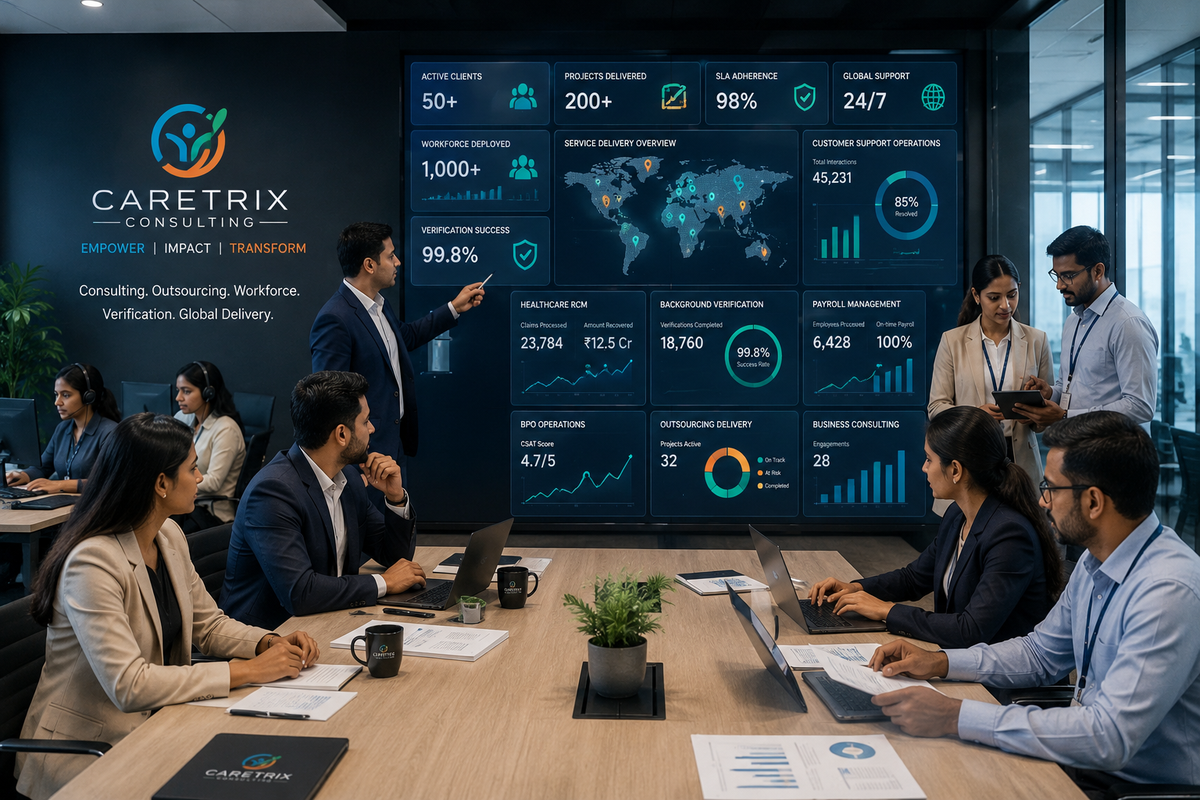
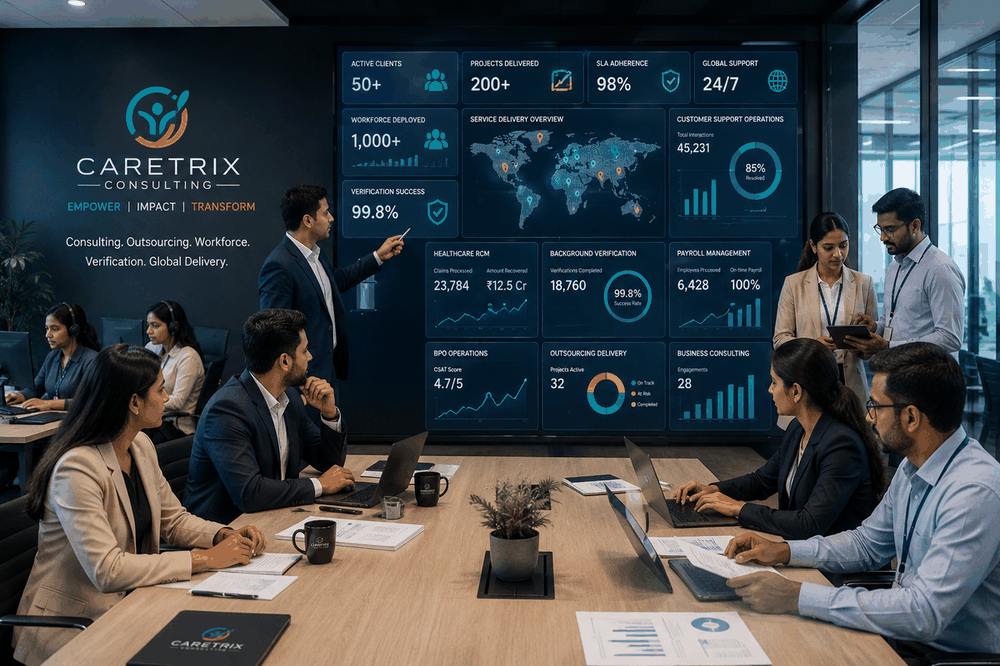
Optimize website loading speed: remove remote 1080p video autoplay, lazy-load below-the-fold components, split vendor-motion chunk, and compress brand assets

diff --git a/client/src/components/HumanMotion8DStudio.jsx b/client/src/components/HumanMotion8DStudio.jsx
@@ -121,7 +121,8 @@ const SERVICES_VIDEOS = [
 
 export default function HumanMotion8DStudio({ onOpenModal }) {
   const [selectedIdx, setSelectedIdx] = useState(0);
-  const [isPlaying, setIsPlaying] = useState(true);
+  const [isPlaying, setIsPlaying] = useState(false);
+  const [hasLoadedVideo, setHasLoadedVideo] = useState(false);
   const [isMuted, setIsMuted] = useState(true);
   const [isSpatial8DOn, setIsSpatial8DOn] = useState(false);
   const [azimuth, setAzimuth] = useState(0);
@@ -136,13 +137,13 @@ export default function HumanMotion8DStudio({ onOpenModal }) {
 
   // Handle Video play/pause
   useEffect(() => {
-    if (!videoRef.current) return;
+    if (!videoRef.current || !hasLoadedVideo) return;
     if (isPlaying) {
       videoRef.current.play().catch(() => {});
     } else {
       videoRef.current.pause();
     }
-  }, [isPlaying, selectedIdx]);
+  }, [isPlaying, selectedIdx, hasLoadedVideo]);
 
   // Handle 8D Spatial Audio Synth using Web Audio API
   useEffect(() => {
@@ -413,9 +414,9 @@ export default function HumanMotion8DStudio({ onOpenModal }) {
               <div style={{ position: 'relative', aspectRatio: '16/9', width: '100%', overflow: 'hidden' }}>
                 <video
                   ref={videoRef}
-                  src={activeService.videoUrl}
+                  src={hasLoadedVideo ? activeService.videoUrl : undefined}
                   poster={activeService.poster}
-                  autoPlay
+                  preload="none"
                   loop
                   muted={isMuted}
                   playsInline
@@ -426,6 +427,52 @@ export default function HumanMotion8DStudio({ onOpenModal }) {
                     display: 'block',
                   }}
                 />
+
+                {/* On-Demand Video Play Overlay */}
+                {!hasLoadedVideo && (
+                  <div
+                    onClick={() => {
+                      setHasLoadedVideo(true);
+                      setIsPlaying(true);
+                    }}
+                    style={{
+                      position: 'absolute',
+                      inset: 0,
+                      display: 'flex',
+                      flexDirection: 'column',
+                      alignItems: 'center',
+                      justifyContent: 'center',
+                      background: 'rgba(15, 23, 42, 0.45)',
+                      backdropFilter: 'blur(2px)',
+                      cursor: 'pointer',
+                      zIndex: 15,
+                      transition: 'all 0.3s',
+                    }}
+                  >
+                    <div
+                      style={{
+                        width: '64px',
+                        height: '64px',
+                        borderRadius: '50%',
+                        background: 'linear-gradient(135deg, #0052cc 0%, #2563eb 100%)',
+                        display: 'flex',
+                        alignItems: 'center',
+                        justifyContent: 'center',
+                        color: '#ffffff',
+                        boxShadow: '0 0 25px rgba(37, 99, 235, 0.6)',
+                        marginBottom: '10px',
+                      }}
+                    >
+                      <Play size={26} style={{ marginLeft: '3px' }} />
+                    </div>
+                    <span style={{ color: '#ffffff', fontSize: '0.9rem', fontWeight: 700, textShadow: '0 2px 4px rgba(0,0,0,0.8)' }}>
+                      Click to Stream 8D Demonstration
+                    </span>
+                    <span style={{ color: '#93c5fd', fontSize: '0.74rem', marginTop: '3px' }}>
+                      Fast On-Demand HD Video
+                    </span>
+                  </div>
+                )}
 
                 {/* HUD Top Bar */}
                 <div
@@ -547,7 +594,10 @@ export default function HumanMotion8DStudio({ onOpenModal }) {
                   </div>
 
                   <button
-                    onClick={() => setIsPlaying(!isPlaying)}
+                    onClick={() => {
+                      if (!hasLoadedVideo) setHasLoadedVideo(true);
+                      setIsPlaying(!isPlaying);
+                    }}
                     style={{
                       width: '42px',
                       height: '42px',

diff --git a/client/src/pages/Home.jsx b/client/src/pages/Home.jsx
@@ -1,4 +1,4 @@
-import React, { useState } from 'react';
+import React, { useState, lazy, Suspense } from 'react';
 import { Link } from 'react-router-dom';
 import {
   ArrowRight,
@@ -27,9 +27,11 @@ import {
 import Interactive3DCanvas from '../components/Interactive3DCanvas';
 import TiltCard from '../components/TiltCard';
 import StatCounter from '../components/StatCounter';
-import PanIndiaAndAEOSection from '../components/PanIndiaAndAEOSection';
-import HumanMotion8DStudio from '../components/HumanMotion8DStudio';
 import { AnimasterMagneticButton } from '../components/extensions/AnimasterLib';
+
+// Lazy-load below-the-fold heavy modules to achieve sub-second FCP
+const PanIndiaAndAEOSection = lazy(() => import('../components/PanIndiaAndAEOSection'));
+const HumanMotion8DStudio = lazy(() => import('../components/HumanMotion8DStudio'));
 
 export default function Home({ onOpenModal }) {
   // Mega Hub Hero Active Pillar State: 'consulting' | 'services'
@@ -963,7 +965,9 @@ export default function Home({ onOpenModal }) {
       </section>
 
       {/* 6. Real-Human 3D 8D Motion Video Studio Demonstration */}
-      <HumanMotion8DStudio onOpenModal={onOpenModal} />
+      <Suspense fallback={<div style={{ minHeight: '300px', background: '#f8fafc' }} />}>
+        <HumanMotion8DStudio onOpenModal={onOpenModal} />
+      </Suspense>
 
       {/* 7. Real-Time Global Delivery & Delivery Centers */}
       <section className="section-py" style={{ background: '#f8fafc', borderTop: '1px solid #e2e8f0', borderBottom: '1px solid #e2e8f0' }}>
@@ -1200,7 +1204,9 @@ export default function Home({ onOpenModal }) {
       </section>
 
       {/* 9. Pan-India Business Presence & Advanced AEO/GEO Knowledge Engine */}
-      <PanIndiaAndAEOSection onOpenModal={onOpenModal} />
+      <Suspense fallback={<div style={{ minHeight: '300px', background: '#f8fafc' }} />}>
+        <PanIndiaAndAEOSection onOpenModal={onOpenModal} />
+      </Suspense>
 
       {/* 10. Full-Frame Executive Enterprise Call to Action */}
       <section
@@ -1237,7 +1243,7 @@ export default function Home({ onOpenModal }) {
               lineHeight: '1.75',
             }}
           >
-            Whether you require 24/7 Application Support Services (AMS), an International/Domestic Voice Process call center, or an end-to-end SAP S/4HANA migration pod, our leadership team is ready to deploy.
+            Whether you require 24/7 Application Support (AMS), Multi-Cloud &amp; DevOps Engineering, Custom Software Development, or Global Voice Operations, our leadership team is ready to deploy.
           </p>
 
           <div style={{ display: 'flex', justifyContent: 'center', gap: '1.25rem', flexWrap: 'wrap' }}>

diff --git a/client/src/pages/Services.jsx b/client/src/pages/Services.jsx
@@ -1,4 +1,4 @@
-import React, { useState } from 'react';
+import React, { useState, lazy, Suspense } from 'react';
 import {
   Cpu,
   HeartPulse,
@@ -33,7 +33,8 @@ import {
   Shield,
   Workflow,
 } from 'lucide-react';
-import HumanMotion8DStudio from '../components/HumanMotion8DStudio';
+
+const HumanMotion8DStudio = lazy(() => import('../components/HumanMotion8DStudio'));
 
 export default function Services({ onOpenModal }) {
   const [activeFilter, setActiveFilter] = useState('all');
@@ -485,7 +486,9 @@ export default function Services({ onOpenModal }) {
       </section>
 
       {/* 3. 3D 8D Real-Human Video Studio Demonstration */}
-      <HumanMotion8DStudio onOpenModal={onOpenModal} />
+      <Suspense fallback={<div style={{ minHeight: '280px', background: '#f8fafc' }} />}>
+        <HumanMotion8DStudio onOpenModal={onOpenModal} />
+      </Suspense>
 
       {/* 4. Search & Filter Bar */}
       <section

diff --git a/client/src/components/ParticleCanvas.jsx b/client/src/components/ParticleCanvas.jsx
@@ -81,20 +81,24 @@ export default function ParticleCanvas() {
     };
     document.addEventListener('visibilitychange', handleVisibility);
 
-    function animate() {
+    let lastTime = 0;
+    function animate(currentTime = 0) {
       if (!isRunning) {
         animationId = null;
         return;
       }
+      animationId = requestAnimationFrame(animate);
+      if (currentTime - lastTime < 33) return;
+      lastTime = currentTime;
+
       ctx.clearRect(0, 0, W, H);
       for (let i = 0; i < particles.length; i++) {
         particles[i].update();
         particles[i].draw();
       }
-      animationId = requestAnimationFrame(animate);
     }
 
-    animate();
+    animate(0);
     window.addEventListener('resize', resize);
 
     return () => {

diff --git a/client/vite.config.js b/client/vite.config.js
@@ -26,6 +26,9 @@ export default defineConfig({
           if (id.includes('node_modules/lucide-react')) {
             return 'vendor-icons';
           }
+          if (id.includes('node_modules/framer-motion')) {
+            return 'vendor-motion';
+          }
         },
       },
     },
